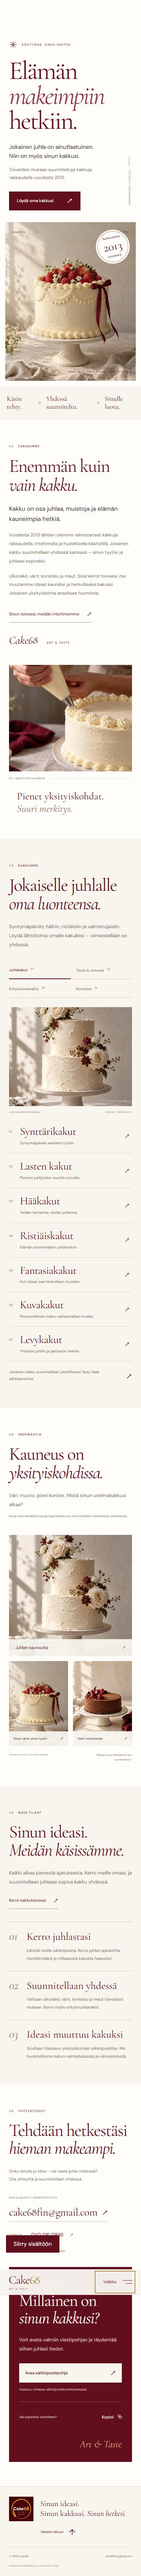
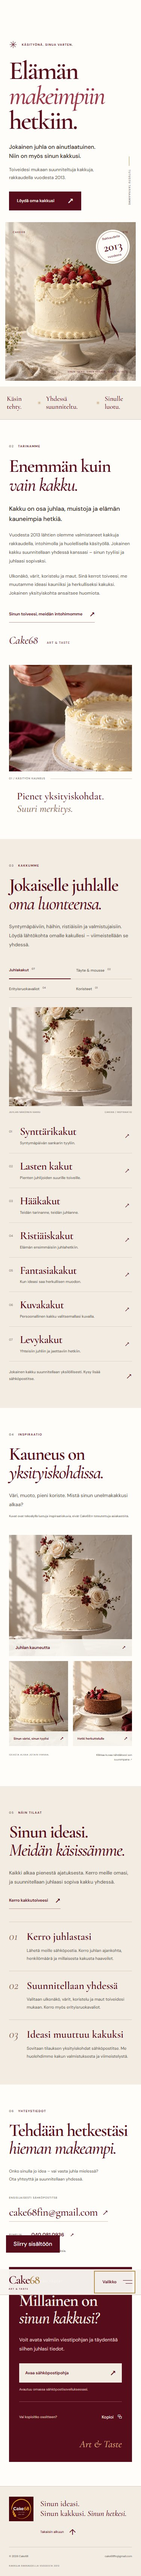
Refine typography weights and visual contrast

diff --git a/styles.css b/styles.css
@@ -1,18 +1,18 @@
-:root{--wine:#610f1d;--wine-deep:#490b15;--cream:#f8f5ef;--white:#fffdf9;--ink:#342c28;--muted:#776c65;--line:#e5ddd3;--gold:#b58d4a;--sidebar:244px;--gutter:clamp(32px,4.6vw,76px);--serif:'Cormorant Garamond',Georgia,serif;--sans:'DM Sans',Arial,sans-serif;--ease:cubic-bezier(.22,1,.36,1)}
-*{box-sizing:border-box}html{scroll-behavior:smooth;scroll-padding-top:26px}body{margin:0;background:var(--white);color:var(--ink);font-family:var(--sans);font-size:15px;line-height:1.75;-webkit-font-smoothing:antialiased}body.menu-is-open,body.lightbox-is-open{overflow:hidden}a{color:inherit;text-decoration:none}button{font:inherit;cursor:pointer}button,a{-webkit-tap-highlight-color:transparent}button{color:inherit}img{display:block;width:100%;height:auto}figure,p,h1,h2,h3{margin:0}h1,h2,h3{font-weight:400}h1,h2{font-family:var(--serif);color:var(--wine);line-height:1.02;letter-spacing:-.04em}h2{font-size:clamp(45px,4.45vw,70px)}em{font-weight:400}a:focus-visible,button:focus-visible,[tabindex]:focus-visible{outline:2px solid var(--gold);outline-offset:6px}::selection{background:var(--wine);color:var(--cream)}[hidden]{display:none!important}.skip-link{position:fixed;left:16px;top:-90px;z-index:100;background:var(--wine);color:white;padding:10px 20px}.skip-link:focus{top:16px}.mobile-bar,.menu-backdrop,.menu-close{display:none}
-.sidebar{position:fixed;inset:0 auto 0 0;width:var(--sidebar);display:flex;flex-direction:column;padding:38px 32px 22px;background:var(--cream);border-right:1px solid var(--line);z-index:30;overflow-y:auto}.brand{display:block;width:150px;align-self:center}.brand img{aspect-ratio:1}.sidebar-intro{font-size:9px;letter-spacing:.19em;text-align:center;margin:18px 0 35px;color:var(--wine)}.sidebar nav{display:flex;flex-direction:column;gap:4px}.nav-link{display:flex;align-items:center;gap:15px;min-height:48px;font-size:13px;color:#776c65;transition:color .25s,padding .3s var(--ease);position:relative}.nav-number{font-size:9px;letter-spacing:.05em;color:#776c65}.nav-link.active,.nav-link:hover{color:var(--wine)}.nav-link:hover{padding-left:4px}.nav-link.active{font-weight:600}.nav-link.active .nav-number{color:var(--wine)}.nav-dot{width:5px;height:5px;margin-left:auto;background:var(--wine);border-radius:50%;opacity:0;transition:opacity .3s}.active .nav-dot{opacity:1}.sidebar-bottom{margin-top:auto;padding-top:45px}.sidebar-bottom>p{font-family:var(--serif);font-size:23px;line-height:1.25;color:var(--wine);margin-bottom:23px}.sidebar-cta{display:flex;align-items:center;justify-content:space-between;border-top:1px solid #bb9d9b;border-bottom:1px solid #bb9d9b;padding:13px 0;font-size:11px;color:var(--wine)}.sidebar-cta span{font-size:19px;transition:transform .3s}.sidebar-cta:hover span{transform:translate(3px,-3px)}.sidebar-foot{display:flex;justify-content:space-between;margin-top:31px;font-size:8px;letter-spacing:.13em;color:var(--muted)}main{margin-left:var(--sidebar)}.section-pad{padding:100px var(--gutter)}.eyebrow{display:flex;align-items:center;gap:13px;font-size:10px;font-weight:500;letter-spacing:.18em;color:var(--wine);line-height:1.5;margin-bottom:25px}.eyebrow>span{color:#776c65;font-size:9px}.text-link{display:inline-flex;gap:24px;align-items:center;color:var(--wine);font-size:12px;padding-bottom:6px;border-bottom:1px solid #b4918c;line-height:1.6}.text-link span{font-size:19px;transition:transform .3s}.text-link:hover span{transform:translate(3px,-3px)}.button{display:inline-flex;align-items:center;justify-content:space-between;gap:31px;min-height:52px;padding:15px 25px;font-size:12px;font-weight:500;line-height:1.4;transition:background .3s,transform .3s}.button span{font-size:21px;line-height:1;transition:transform .3s var(--ease)}.button:hover span{transform:translate(3px,-3px)}.button-wine{background:var(--wine);color:var(--cream)}.button-wine:hover{background:var(--wine-deep)}.button-cream{background:var(--cream);color:var(--wine)}.button-cream:hover{background:#efdfc9}
-.hero{display:grid;grid-template-columns:1fr 1fr;min-height:760px;background:var(--white)}.hero-copy{padding:65px 28px 35px var(--gutter);display:flex;align-items:flex-start;flex-direction:column;justify-content:center;position:relative}.hero-kicker{display:flex;gap:12px;align-items:center;font-size:9px;letter-spacing:.19em;color:var(--wine);margin-bottom:31px}.tiny-star{width:22px;height:22px;line-height:1}.tiny-star svg,.note-flower svg{display:block;width:100%;height:100%}.hero h1{font-size:clamp(64px,6.45vw,108px);line-height:.96;letter-spacing:-.05em;margin-bottom:30px}.hero h1 em{color:#8b3540}.hero-description{font-size:17px;line-height:1.65;margin-bottom:14px}.hero-detail{font-size:12px;color:var(--muted);line-height:1.8;margin-bottom:30px}.hero-scroll{display:flex;gap:12px;align-items:center;margin-top:61px;font-size:8px;letter-spacing:.15em;color:var(--muted)}.hero-scroll>span:last-child{font-size:16px;color:var(--wine)}.scroll-line{height:1px;width:27px;background:var(--gold)}.hero-visual{position:relative;min-width:0;min-height:760px;background:#eae4d9}.hero-visual picture{position:absolute;inset:0}.hero-visual img{height:100%;object-fit:cover;object-position:50% 55%}.image-topline{position:absolute;inset:28px 29px auto;display:flex;justify-content:space-between;color:var(--wine);font-size:9px;letter-spacing:.17em}.heritage-seal{position:absolute;bottom:80px;left:-48px;border:1px solid #af8970;outline:6px solid var(--white);background:var(--white);width:110px;height:110px;border-radius:50%;display:flex;flex-direction:column;align-items:center;justify-content:center;color:var(--wine);transform:rotate(-11deg);line-height:1.2}.heritage-seal span{font-size:10px;letter-spacing:.04em}.heritage-seal strong{font-family:var(--serif);font-size:38px;font-weight:400;margin:1px 0}.hero-image-caption{position:absolute;bottom:25px;left:35px;right:25px;font-size:8px;letter-spacing:.13em;color:var(--wine);text-align:right}.brand-note{display:flex;align-items:center;justify-content:center;gap:clamp(16px,3vw,42px);padding:25px 20px;border-bottom:1px solid var(--line);font-family:var(--serif);font-size:24px;color:var(--wine);background:var(--cream)}.note-flower{width:15px;height:15px;flex-shrink:0;color:var(--gold)}
-.story{display:grid;grid-template-columns:1fr 1fr;gap:clamp(40px,6vw,90px);align-items:center;padding-top:116px;padding-bottom:115px}.story-art{padding-top:13px;position:relative}.story-photo{aspect-ratio:1.04;overflow:hidden}.story-photo img{height:100%;object-fit:cover;object-position:52% 50%}.story-photo-caption{display:flex;align-items:center;gap:14px;margin-top:18px;font-size:8px;letter-spacing:.12em;color:var(--muted)}.caption-line{height:1px;background:var(--line);flex:1}.story-note{font-family:var(--serif);font-size:29px;line-height:1.2;margin:34px 0 0 35px;color:var(--wine)}.story-note em{color:#8e6652}.story-copy h2{margin-bottom:25px}.story-copy .lead{font-size:17px;line-height:1.7;margin-bottom:18px}.story-copy>p:not(.eyebrow):not(.lead){font-size:14px;line-height:1.9;color:var(--muted);margin-bottom:17px}.story-copy .text-link{margin-top:12px}.story-signature{font-family:var(--serif);color:var(--wine);font-size:33px;font-style:italic;margin-top:28px}.story-signature span{font-family:var(--sans);font-style:normal;font-size:8px;letter-spacing:.16em;margin-left:17px;text-transform:uppercase}
-.cakes{background:var(--cream);padding-top:85px}.section-heading{display:flex;justify-content:space-between;align-items:flex-end;gap:35px;margin-bottom:41px}.section-heading>p,.gallery-intro{font-size:13px;line-height:1.85;color:var(--muted);max-width:280px;padding-bottom:5px}.cake-tabs{display:flex;border-bottom:1px solid #d8c9b9;gap:28px;margin-bottom:40px}.cake-tab{position:relative;border:0;border-bottom:2px solid transparent;background:transparent;padding:17px 0;font-size:11px;color:var(--muted);white-space:nowrap}.cake-tab>span{font-size:8px;vertical-align:super;margin-left:7px;color:#776c65}.cake-tab[aria-selected=true]{border-bottom-color:var(--wine);color:var(--wine)}.cake-tab:hover{color:var(--wine)}.cake-layout{display:grid;grid-template-columns:.87fr 1.13fr;gap:55px;align-items:start}.cake-feature{position:sticky;top:32px}.cake-feature img{height:auto;aspect-ratio:4/5;object-fit:cover;transition:opacity .3s}.cake-feature figcaption{display:flex;justify-content:space-between;gap:10px;margin-top:15px;font-size:7px;letter-spacing:.08em;color:var(--muted)}.panel-label{font-family:var(--serif);font-size:28px;color:var(--wine);margin:0 0 15px}.js .panel-label{display:none}.cake-row{display:grid;grid-template-columns:19px 1fr 20px;gap:14px;padding:19px 0 17px;border-bottom:1px solid #dfd4c8;align-items:center}.cake-row:first-of-type{padding-top:4px}.cake-index{font-size:8px;color:#776c65;align-self:start;padding-top:9px}.cake-row h3{font-family:var(--serif);font-size:29px;color:var(--wine);line-height:1.1;letter-spacing:-.02em;margin-bottom:7px}.cake-row p{font-size:12px;line-height:1.6;color:var(--muted)}.row-arrow{font-size:19px;color:var(--wine);transition:transform .3s}.cake-row:hover .row-arrow{transform:translate(4px,-4px)}.cake-row:hover h3{color:#9b4150}.panel-note{font-size:12px;line-height:1.9;color:var(--muted);margin-top:30px;max-width:350px}.catalog-note{font-size:9px;color:var(--muted);margin-top:26px;line-height:1.8;display:flex;gap:20px;justify-content:space-between}.catalog-note a{color:var(--wine);font-size:22px;min-width:35px;text-align:right}
-.gallery{padding-top:89px;padding-bottom:80px}.gallery .section-heading{margin-bottom:38px}.image-disclosure{font-size:9px;line-height:1.7;margin-top:16px;color:var(--muted)}.gallery-grid{display:grid;grid-template-columns:1.05fr 1fr;grid-template-rows:300px 300px;gap:22px}.gallery-item{padding:0;border:0;background:#eee7df;overflow:hidden;position:relative;text-align:left}.gallery-item img{height:100%;object-fit:cover;transition:transform .8s var(--ease)}.gallery-tall{grid-row:span 2}.gallery-tall img{object-position:50% 53%}.gallery-item:nth-child(2) img{object-position:50% 60%}.gallery-item:nth-child(3) img{object-position:50% 56%}.gallery-item:hover img{transform:scale(1.035)}.gallery-label{position:absolute;bottom:0;left:0;right:0;display:flex;justify-content:space-between;gap:15px;background:rgba(248,245,239,.94);padding:14px 19px;color:var(--wine);font-size:11px;line-height:1.3}.gallery-label>span:last-child{font-size:17px}.gallery-footnote{display:flex;justify-content:space-between;gap:20px;margin-top:25px;font-size:8px;color:var(--muted);letter-spacing:.1em}.gallery-footnote>span:last-child{letter-spacing:0}
+:root{--wine:#570c1b;--wine-deep:#3e0712;--cream:#f2ece3;--white:#fffdf9;--ink:#2c211e;--muted:#655851;--line:#d8c9bb;--gold:#b58d4a;--sidebar:244px;--gutter:clamp(32px,4.6vw,76px);--serif:'Cormorant Garamond',Georgia,serif;--sans:'DM Sans',Arial,sans-serif;--ease:cubic-bezier(.22,1,.36,1)}
+*{box-sizing:border-box}html{scroll-behavior:smooth;scroll-padding-top:26px}body{margin:0;background:var(--white);color:var(--ink);font-family:var(--sans);font-size:15px;font-weight:450;line-height:1.75;-webkit-font-smoothing:antialiased}body.menu-is-open,body.lightbox-is-open{overflow:hidden}a{color:inherit;text-decoration:none}button{font:inherit;cursor:pointer}button,a{-webkit-tap-highlight-color:transparent}button{color:inherit}img{display:block;width:100%;height:auto}figure,p,h1,h2,h3{margin:0}h1,h2,h3{font-weight:600}h1,h2{font-family:var(--serif);color:var(--wine);line-height:1.02;letter-spacing:-.04em}h2{font-size:clamp(45px,4.45vw,70px)}em{font-weight:500}a:focus-visible,button:focus-visible,[tabindex]:focus-visible{outline:2px solid var(--gold);outline-offset:6px}::selection{background:var(--wine);color:var(--cream)}[hidden]{display:none!important}.skip-link{position:fixed;left:16px;top:-90px;z-index:100;background:var(--wine);color:white;padding:10px 20px}.skip-link:focus{top:16px}.mobile-bar,.menu-backdrop,.menu-close{display:none}
+.sidebar{position:fixed;inset:0 auto 0 0;width:var(--sidebar);display:flex;flex-direction:column;padding:38px 32px 22px;background:var(--cream);border-right:1px solid var(--line);z-index:30;overflow-y:auto}.brand{display:block;width:150px;align-self:center}.brand img{aspect-ratio:1}.sidebar-intro{font-size:9px;font-weight:600;letter-spacing:.19em;text-align:center;margin:18px 0 35px;color:var(--wine)}.sidebar nav{display:flex;flex-direction:column;gap:4px}.nav-link{display:flex;align-items:center;gap:15px;min-height:48px;font-size:13px;font-weight:500;color:var(--muted);transition:color .25s,padding .3s var(--ease);position:relative}.nav-number{font-size:9px;letter-spacing:.05em;color:#776c65}.nav-link.active,.nav-link:hover{color:var(--wine)}.nav-link:hover{padding-left:4px}.nav-link.active{font-weight:600}.nav-link.active .nav-number{color:var(--wine)}.nav-dot{width:5px;height:5px;margin-left:auto;background:var(--wine);border-radius:50%;opacity:0;transition:opacity .3s}.active .nav-dot{opacity:1}.sidebar-bottom{margin-top:auto;padding-top:45px}.sidebar-bottom>p{font-family:var(--serif);font-size:23px;font-weight:500;line-height:1.25;color:var(--wine);margin-bottom:23px}.sidebar-cta{display:flex;align-items:center;justify-content:space-between;border-top:1px solid #bb9d9b;border-bottom:1px solid #bb9d9b;padding:13px 0;font-size:11px;font-weight:600;color:var(--wine)}.sidebar-cta span{font-size:19px;transition:transform .3s}.sidebar-cta:hover span{transform:translate(3px,-3px)}.sidebar-foot{display:flex;justify-content:space-between;margin-top:31px;font-size:8px;letter-spacing:.13em;color:var(--muted)}main{margin-left:var(--sidebar)}.section-pad{padding:100px var(--gutter)}.eyebrow{display:flex;align-items:center;gap:13px;font-size:10px;font-weight:600;letter-spacing:.18em;color:var(--wine);line-height:1.5;margin-bottom:25px}.eyebrow>span{color:#776c65;font-size:9px}.text-link{display:inline-flex;gap:24px;align-items:center;color:var(--wine);font-size:12px;font-weight:600;padding-bottom:6px;border-bottom:1px solid #b4918c;line-height:1.6}.text-link span{font-size:19px;transition:transform .3s}.text-link:hover span{transform:translate(3px,-3px)}.button{display:inline-flex;align-items:center;justify-content:space-between;gap:31px;min-height:52px;padding:15px 25px;font-size:12px;font-weight:600;line-height:1.4;transition:background .3s,transform .3s}.button span{font-size:21px;line-height:1;transition:transform .3s var(--ease)}.button:hover span{transform:translate(3px,-3px)}.button-wine{background:var(--wine);color:var(--cream)}.button-wine:hover{background:var(--wine-deep)}.button-cream{background:var(--cream);color:var(--wine)}.button-cream:hover{background:#efdfc9}
+.hero{display:grid;grid-template-columns:1fr 1fr;min-height:760px;background:var(--white)}.hero-copy{padding:65px 28px 35px var(--gutter);display:flex;align-items:flex-start;flex-direction:column;justify-content:center;position:relative}.hero-kicker{display:flex;gap:12px;align-items:center;font-size:9px;font-weight:600;letter-spacing:.19em;color:var(--wine);margin-bottom:31px}.tiny-star{width:22px;height:22px;line-height:1}.tiny-star svg,.note-flower svg{display:block;width:100%;height:100%}.hero h1{font-size:clamp(64px,6.45vw,108px);line-height:.96;letter-spacing:-.05em;margin-bottom:30px}.hero h1 em{color:#9a3548}.hero-description{font-size:17px;font-weight:500;line-height:1.65;margin-bottom:14px}.hero-detail{font-size:12px;color:var(--muted);line-height:1.8;margin-bottom:30px}.hero-scroll{display:flex;gap:12px;align-items:center;margin-top:61px;font-size:8px;letter-spacing:.15em;color:var(--muted)}.hero-scroll>span:last-child{font-size:16px;color:var(--wine)}.scroll-line{height:1px;width:27px;background:var(--gold)}.hero-visual{position:relative;min-width:0;min-height:760px;background:#eae4d9}.hero-visual picture{position:absolute;inset:0}.hero-visual img{height:100%;object-fit:cover;object-position:50% 55%}.image-topline{position:absolute;inset:28px 29px auto;display:flex;justify-content:space-between;color:var(--wine);font-size:9px;letter-spacing:.17em}.heritage-seal{position:absolute;bottom:80px;left:-48px;border:1px solid #af8970;outline:6px solid var(--white);background:var(--white);width:110px;height:110px;border-radius:50%;display:flex;flex-direction:column;align-items:center;justify-content:center;color:var(--wine);transform:rotate(-11deg);line-height:1.2}.heritage-seal span{font-size:10px;letter-spacing:.04em}.heritage-seal strong{font-family:var(--serif);font-size:38px;font-weight:600;margin:1px 0}.hero-image-caption{position:absolute;bottom:25px;left:35px;right:25px;font-size:8px;letter-spacing:.13em;color:var(--wine);text-align:right}.brand-note{display:flex;align-items:center;justify-content:center;gap:clamp(16px,3vw,42px);padding:25px 20px;border-bottom:1px solid var(--line);font-family:var(--serif);font-size:24px;font-weight:500;color:var(--wine);background:var(--cream)}.note-flower{width:15px;height:15px;flex-shrink:0;color:var(--gold)}
+.story{display:grid;grid-template-columns:1fr 1fr;gap:clamp(40px,6vw,90px);align-items:center;padding-top:116px;padding-bottom:115px}.story-art{padding-top:13px;position:relative}.story-photo{aspect-ratio:1.04;overflow:hidden}.story-photo img{height:100%;object-fit:cover;object-position:52% 50%}.story-photo-caption{display:flex;align-items:center;gap:14px;margin-top:18px;font-size:8px;letter-spacing:.12em;color:var(--muted)}.caption-line{height:1px;background:var(--line);flex:1}.story-note{font-family:var(--serif);font-size:29px;font-weight:500;line-height:1.2;margin:34px 0 0 35px;color:var(--wine)}.story-note em{color:#8e6652}.story-copy h2{margin-bottom:25px}.story-copy .lead{font-size:17px;font-weight:500;line-height:1.7;margin-bottom:18px}.story-copy>p:not(.eyebrow):not(.lead){font-size:14px;line-height:1.9;color:var(--muted);margin-bottom:17px}.story-copy .text-link{margin-top:12px}.story-signature{font-family:var(--serif);color:var(--wine);font-size:33px;font-style:italic;margin-top:28px}.story-signature span{font-family:var(--sans);font-style:normal;font-size:8px;letter-spacing:.16em;margin-left:17px;text-transform:uppercase}
+.cakes{background:var(--cream);padding-top:85px}.section-heading{display:flex;justify-content:space-between;align-items:flex-end;gap:35px;margin-bottom:41px}.section-heading>p,.gallery-intro{font-size:13px;line-height:1.85;color:var(--muted);max-width:280px;padding-bottom:5px}.cake-tabs{display:flex;border-bottom:1px solid #d8c9b9;gap:28px;margin-bottom:40px}.cake-tab{position:relative;border:0;border-bottom:2px solid transparent;background:transparent;padding:17px 0;font-size:11px;font-weight:500;color:var(--muted);white-space:nowrap}.cake-tab>span{font-size:8px;vertical-align:super;margin-left:7px;color:#776c65}.cake-tab[aria-selected=true]{border-bottom-color:var(--wine);color:var(--wine);font-weight:600}.cake-tab:hover{color:var(--wine)}.cake-layout{display:grid;grid-template-columns:.87fr 1.13fr;gap:55px;align-items:start}.cake-feature{position:sticky;top:32px}.cake-feature img{height:auto;aspect-ratio:4/5;object-fit:cover;transition:opacity .3s}.cake-feature figcaption{display:flex;justify-content:space-between;gap:10px;margin-top:15px;font-size:7px;letter-spacing:.08em;color:var(--muted)}.panel-label{font-family:var(--serif);font-size:28px;color:var(--wine);margin:0 0 15px}.js .panel-label{display:none}.cake-row{display:grid;grid-template-columns:19px 1fr 20px;gap:14px;padding:19px 0 17px;border-bottom:1px solid #dfd4c8;align-items:center}.cake-row:first-of-type{padding-top:4px}.cake-index{font-size:8px;color:#776c65;align-self:start;padding-top:9px}.cake-row h3{font-family:var(--serif);font-size:29px;color:var(--wine);line-height:1.1;letter-spacing:-.02em;margin-bottom:7px}.cake-row p{font-size:12px;line-height:1.6;color:var(--muted)}.row-arrow{font-size:19px;color:var(--wine);transition:transform .3s}.cake-row:hover .row-arrow{transform:translate(4px,-4px)}.cake-row:hover h3{color:#9b4150}.panel-note{font-size:12px;line-height:1.9;color:var(--muted);margin-top:30px;max-width:350px}.catalog-note{font-size:9px;color:var(--muted);margin-top:26px;line-height:1.8;display:flex;gap:20px;justify-content:space-between}.catalog-note a{color:var(--wine);font-size:22px;min-width:35px;text-align:right}
+.gallery{padding-top:89px;padding-bottom:80px}.gallery .section-heading{margin-bottom:38px}.image-disclosure{font-size:9px;line-height:1.7;margin-top:16px;color:var(--muted)}.gallery-grid{display:grid;grid-template-columns:1.05fr 1fr;grid-template-rows:300px 300px;gap:22px}.gallery-item{padding:0;border:0;background:#eee7df;overflow:hidden;position:relative;text-align:left}.gallery-item img{height:100%;object-fit:cover;transition:transform .8s var(--ease)}.gallery-tall{grid-row:span 2}.gallery-tall img{object-position:50% 53%}.gallery-item:nth-child(2) img{object-position:50% 60%}.gallery-item:nth-child(3) img{object-position:50% 56%}.gallery-item:hover img{transform:scale(1.035)}.gallery-label{position:absolute;bottom:0;left:0;right:0;display:flex;justify-content:space-between;gap:15px;background:rgba(248,245,239,.94);padding:14px 19px;color:var(--wine);font-size:11px;font-weight:600;line-height:1.3}.gallery-label>span:last-child{font-size:17px}.gallery-footnote{display:flex;justify-content:space-between;gap:20px;margin-top:25px;font-size:8px;color:var(--muted);letter-spacing:.1em}.gallery-footnote>span:last-child{letter-spacing:0}
 .ordering{background:var(--cream);display:grid;grid-template-columns:1fr 1fr;gap:65px;padding-top:89px;padding-bottom:86px}.ordering-intro h2{font-size:clamp(44px,4.1vw,64px);margin-bottom:24px}.ordering-intro>p:not(.eyebrow){font-size:13px;line-height:1.9;color:var(--muted);max-width:330px;margin-bottom:27px}.order-steps{list-style:none;padding:0;margin:8px 0 0}.order-steps li{display:grid;grid-template-columns:37px 1fr;gap:24px;border-top:1px solid #d9cbbb;padding:27px 0}.order-steps li:last-child{padding-bottom:0}.step-number{font-family:var(--serif);font-size:35px;font-style:italic;line-height:1;color:#8e6652}.order-steps h3{font-family:var(--serif);font-size:30px;line-height:1.2;color:var(--wine);margin-bottom:9px}.order-steps p{font-size:13px;line-height:1.9;color:var(--muted);max-width:350px}
-.contact{display:grid;grid-template-columns:1.15fr .85fr;gap:52px;padding-top:96px;padding-bottom:97px;align-items:center}.contact h2{font-size:clamp(44px,4.3vw,67px);margin-bottom:26px}.contact-copy>p:not(.eyebrow):not(.online-note){font-size:13px;line-height:1.9;color:var(--muted)}.contact-method{margin-top:33px}.contact-label{display:block;font-size:8px;letter-spacing:.13em;color:var(--muted);margin-bottom:9px}.contact-email{font-family:var(--serif);font-size:clamp(24px,2.35vw,35px);color:var(--wine);letter-spacing:-.02em;border-bottom:1px solid #d4bdb1;display:inline-flex;gap:18px;align-items:center;line-height:1.6}.contact-email>span{font-family:var(--sans);font-size:22px}.contact-phone{margin-top:24px;display:flex;align-items:center;gap:25px}.contact-phone>span{font-size:8px;letter-spacing:.13em;color:var(--muted)}.contact-phone a{font-size:14px;color:var(--wine)}.contact-phone a>span{margin-left:13px}.online-note{font-size:9px;color:var(--muted);margin-top:30px;display:flex;gap:8px;align-items:center}.online-note>span{width:4px;height:4px;border-radius:50%;background:var(--wine)}.contact-card{background:var(--wine);color:var(--cream);padding:38px 32px 26px;position:relative}.contact-card .eyebrow{color:#d8b9a0;font-size:8px;margin-bottom:22px}.contact-card h3{font-family:var(--serif);font-size:43px;line-height:1.04;letter-spacing:-.035em;margin-bottom:22px}.contact-card>p:not(.eyebrow):not(.copy-status){font-size:12px;line-height:1.85;color:#e0c7c4;margin-bottom:26px}.contact-card .button{width:100%;font-size:10px;padding:15px 16px;gap:16px}.email-hint{display:block;color:#d9b9b4;font-size:8px;margin-top:11px}.copy-contact{display:flex;justify-content:space-between;gap:12px;align-items:center;border-top:1px solid #8c4750;padding-top:20px;margin-top:23px;font-size:8px;color:#dec1bb}.copy-contact button{border:0;padding:9px 0 9px 12px;color:var(--cream);background:none;font-size:10px;min-height:42px}.copy-contact button>span{margin-left:8px}.copy-status{font-size:9px;line-height:1.6;color:var(--cream);min-height:15px;margin-top:2px}.card-signature{font-family:var(--serif);font-style:italic;display:block;text-align:right;font-size:26px;color:#d9b187;margin-top:15px}
-.footer{padding:35px var(--gutter) 22px;background:var(--cream);border-top:1px solid var(--line)}.footer-top{display:flex;gap:25px;align-items:center;padding-bottom:28px}.footer-top img{width:75px;aspect-ratio:1}.footer-top p{font-family:var(--serif);font-size:23px;line-height:1.25;color:var(--wine)}.back-to-top{margin-left:auto;display:flex;gap:19px;align-items:center;font-size:10px;color:var(--wine);min-height:44px}.back-to-top span{font-size:21px}.footer-bottom{display:flex;justify-content:space-between;align-items:center;gap:20px;border-top:1px solid var(--line);padding-top:20px;color:var(--muted);font-size:8px}.footer-bottom>span:nth-child(2){font-size:7px;letter-spacing:.1em}
+.contact{display:grid;grid-template-columns:1.15fr .85fr;gap:52px;padding-top:96px;padding-bottom:97px;align-items:center}.contact h2{font-size:clamp(44px,4.3vw,67px);margin-bottom:26px}.contact-copy>p:not(.eyebrow):not(.online-note){font-size:13px;line-height:1.9;color:var(--muted)}.contact-method{margin-top:33px}.contact-label{display:block;font-size:8px;letter-spacing:.13em;color:var(--muted);margin-bottom:9px}.contact-email{font-family:var(--serif);font-weight:500;font-size:clamp(24px,2.35vw,35px);color:var(--wine);letter-spacing:-.02em;border-bottom:1px solid #d4bdb1;display:inline-flex;gap:18px;align-items:center;line-height:1.6}.contact-email>span{font-family:var(--sans);font-size:22px}.contact-phone{margin-top:24px;display:flex;align-items:center;gap:25px}.contact-phone>span{font-size:8px;letter-spacing:.13em;color:var(--muted)}.contact-phone a{font-size:14px;font-weight:600;color:var(--wine)}.contact-phone a>span{margin-left:13px}.online-note{font-size:9px;color:var(--muted);margin-top:30px;display:flex;gap:8px;align-items:center}.online-note>span{width:4px;height:4px;border-radius:50%;background:var(--wine)}.contact-card{background:var(--wine);color:var(--cream);padding:38px 32px 26px;position:relative}.contact-card .eyebrow{color:#d8b9a0;font-size:8px;margin-bottom:22px}.contact-card h3{font-family:var(--serif);font-size:43px;line-height:1.04;letter-spacing:-.035em;margin-bottom:22px}.contact-card>p:not(.eyebrow):not(.copy-status){font-size:12px;line-height:1.85;color:#e0c7c4;margin-bottom:26px}.contact-card .button{width:100%;font-size:10px;padding:15px 16px;gap:16px}.email-hint{display:block;color:#d9b9b4;font-size:8px;margin-top:11px}.copy-contact{display:flex;justify-content:space-between;gap:12px;align-items:center;border-top:1px solid #8c4750;padding-top:20px;margin-top:23px;font-size:8px;color:#dec1bb}.copy-contact button{border:0;padding:9px 0 9px 12px;color:var(--cream);background:none;font-size:10px;min-height:42px}.copy-contact button>span{margin-left:8px}.copy-status{font-size:9px;line-height:1.6;color:var(--cream);min-height:15px;margin-top:2px}.card-signature{font-family:var(--serif);font-style:italic;display:block;text-align:right;font-size:26px;color:#d9b187;margin-top:15px}
+.footer{padding:35px var(--gutter) 22px;background:var(--cream);border-top:1px solid var(--line)}.footer-top{display:flex;gap:25px;align-items:center;padding-bottom:28px}.footer-top img{width:75px;aspect-ratio:1}.footer-top p{font-family:var(--serif);font-size:23px;font-weight:500;line-height:1.25;color:var(--wine)}.back-to-top{margin-left:auto;display:flex;gap:19px;align-items:center;font-size:10px;color:var(--wine);min-height:44px}.back-to-top span{font-size:21px}.footer-bottom{display:flex;justify-content:space-between;align-items:center;gap:20px;border-top:1px solid var(--line);padding-top:20px;color:var(--muted);font-size:8px}.footer-bottom>span:nth-child(2){font-size:7px;letter-spacing:.1em}
 .lightbox{width:min(920px,92vw);max-height:94dvh;overflow:auto;border:0;padding:32px 32px 18px;background:var(--cream);color:var(--wine)}.lightbox::backdrop{background:rgba(32,15,17,.8);backdrop-filter:blur(5px)}.lightbox figure{margin:0}.lightbox figure img{width:100%;max-height:74dvh;object-fit:contain}.lightbox figcaption{text-align:center;font-family:var(--serif);font-size:24px;margin-top:16px;line-height:1.3}.lightbox-close{position:absolute;right:3px;top:0;width:40px;height:40px;border:0;background:var(--cream);color:var(--wine);font-size:30px;line-height:1}.lightbox-disclosure{text-align:center;font-size:9px;margin-top:8px;color:var(--muted)}.js .reveal{opacity:0;transform:translateY(22px);transition:opacity .7s var(--ease),transform .8s var(--ease)}.js .reveal.is-visible{opacity:1;transform:translateY(0)}
 @media(min-width:1600px){:root{--sidebar:268px;--gutter:80px}.hero{min-height:850px}.hero-visual{min-height:850px}.hero-copy{padding-right:48px}.hero h1{font-size:110px}.gallery-grid{grid-template-rows:350px 350px}.sidebar{padding-left:39px;padding-right:39px}}
 @media(min-width:1024px) and (max-height:780px){.sidebar{padding-top:22px}.brand{width:122px}.sidebar-intro{margin:12px 0 19px}.nav-link{min-height:41px}.sidebar-bottom{padding-top:25px}.sidebar-bottom>p{font-size:21px;margin-bottom:18px}.sidebar-foot{margin-top:21px}}
 @media(min-width:1024px) and (max-width:1199px){:root{--sidebar:220px;--gutter:35px}.sidebar{padding-left:25px;padding-right:25px}.brand{width:140px}.hero{min-height:680px}.hero-visual{min-height:680px}.hero-copy{padding:45px 24px 30px 35px}.hero h1{font-size:73px}.hero-description{font-size:15px}.hero-detail{font-size:11px}.hero-scroll{margin-top:40px}.heritage-seal{width:92px;height:92px;left:-36px}.heritage-seal strong{font-size:32px}.hero-image-caption{left:15px;right:20px;font-size:7px}.section-pad{padding-top:78px;padding-bottom:78px}.story{gap:38px}.cake-layout{gap:33px}.cake-tabs{gap:22px}.cake-tab{font-size:10px}.section-heading>p,.gallery-intro{max-width:225px}.contact{gap:30px}.contact-card{padding:30px 23px 24px}.contact-card h3{font-size:37px}.contact-email{font-size:26px}.ordering{gap:35px}.gallery-grid{grid-template-rows:260px 260px}}
-@media(max-width:1023px){:root{--gutter:45px;--sidebar:280px}html{scroll-padding-top:90px}.mobile-bar{height:76px;position:fixed;top:0;left:0;right:0;z-index:25;display:flex;align-items:center;justify-content:space-between;padding:0 30px;background:rgba(248,245,239,.97);border-bottom:1px solid var(--line)}.mobile-brand{font-family:var(--serif);font-size:31px;line-height:1;color:var(--wine);letter-spacing:-.05em}.mobile-brand>span{color:#a88142}.mobile-brand small{display:block;font-family:var(--sans);font-size:6px;letter-spacing:.24em;margin-top:5px}.menu-open{border:0;background:none;display:flex;gap:17px;align-items:center;min-height:44px;padding:9px 0 9px 15px;color:var(--wine);font-size:11px}.menu-icon{width:25px;display:flex;flex-direction:column;gap:7px}.menu-icon i{width:25px;height:1px;background:var(--wine)}.menu-icon i:last-child{width:18px;align-self:flex-end}.menu-close{display:block;position:absolute;right:16px;top:13px;background:none;border:0;font-size:31px;color:var(--wine);width:44px;height:44px;line-height:1}.sidebar{transform:translateX(-101%);transition:transform .42s var(--ease),visibility 0s .42s;z-index:50;padding-top:53px;width:280px;max-width:86vw;height:100dvh;visibility:hidden}.menu-is-open .sidebar{transform:translateX(0);visibility:visible;transition:transform .42s var(--ease),visibility 0s}.menu-backdrop{display:block;position:fixed;inset:0;z-index:45;background:rgba(33,13,16,.4);opacity:0;visibility:hidden;transition:opacity .35s,visibility .35s}.menu-is-open .menu-backdrop{opacity:1;visibility:visible}.sidebar-bottom{padding-top:30px}.sidebar-intro{margin-bottom:26px}main{margin-left:0;padding-top:76px}.hero{min-height:705px}.hero-visual{min-height:705px}.hero-copy{padding-left:45px}.hero h1{font-size:clamp(73px,8vw,89px)}.hero-kicker{font-size:8px}.hero-description{font-size:15px}.hero-detail{font-size:11px}.hero-scroll{margin-top:42px}.hero-image-caption{font-size:7px}.heritage-seal{left:-35px;bottom:67px;width:91px;height:91px}.heritage-seal strong{font-size:33px}.heritage-seal span{font-size:8px}.section-pad{padding-top:78px;padding-bottom:78px}.story{gap:43px}.story-copy .lead{font-size:15px}.section-heading h2{font-size:52px}.section-heading>p,.gallery-intro{max-width:230px}.cake-layout{gap:40px}.cake-tabs{gap:28px}.cake-tab{font-size:11px}.ordering{gap:43px}.contact{gap:35px}.contact h2{font-size:48px}.contact-email{font-size:27px}.contact-card{padding:33px 25px 23px}.contact-card h3{font-size:37px}.gallery-grid{grid-template-rows:260px 260px}}
+@media(max-width:1023px){:root{--gutter:45px;--sidebar:280px}html{scroll-padding-top:90px}.mobile-bar{height:76px;position:fixed;top:0;left:0;right:0;z-index:25;display:flex;align-items:center;justify-content:space-between;padding:0 30px;background:rgba(248,245,239,.97);border-bottom:1px solid var(--line)}.mobile-brand{font-family:var(--serif);font-size:31px;font-weight:600;line-height:1;color:var(--wine);letter-spacing:-.05em}.mobile-brand>span{color:#a88142}.mobile-brand small{display:block;font-family:var(--sans);font-size:6px;letter-spacing:.24em;margin-top:5px}.menu-open{border:0;background:none;display:flex;gap:17px;align-items:center;min-height:44px;padding:9px 0 9px 15px;color:var(--wine);font-size:11px;font-weight:600}.menu-icon{width:25px;display:flex;flex-direction:column;gap:7px}.menu-icon i{width:25px;height:1px;background:var(--wine)}.menu-icon i:last-child{width:18px;align-self:flex-end}.menu-close{display:block;position:absolute;right:16px;top:13px;background:none;border:0;font-size:31px;color:var(--wine);width:44px;height:44px;line-height:1}.sidebar{transform:translateX(-101%);transition:transform .42s var(--ease),visibility 0s .42s;z-index:50;padding-top:53px;width:280px;max-width:86vw;height:100dvh;visibility:hidden}.menu-is-open .sidebar{transform:translateX(0);visibility:visible;transition:transform .42s var(--ease),visibility 0s}.menu-backdrop{display:block;position:fixed;inset:0;z-index:45;background:rgba(33,13,16,.4);opacity:0;visibility:hidden;transition:opacity .35s,visibility .35s}.menu-is-open .menu-backdrop{opacity:1;visibility:visible}.sidebar-bottom{padding-top:30px}.sidebar-intro{margin-bottom:26px}main{margin-left:0;padding-top:76px}.hero{min-height:705px}.hero-visual{min-height:705px}.hero-copy{padding-left:45px}.hero h1{font-size:clamp(73px,8vw,89px)}.hero-kicker{font-size:8px}.hero-description{font-size:15px}.hero-detail{font-size:11px}.hero-scroll{margin-top:42px}.hero-image-caption{font-size:7px}.heritage-seal{left:-35px;bottom:67px;width:91px;height:91px}.heritage-seal strong{font-size:33px}.heritage-seal span{font-size:8px}.section-pad{padding-top:78px;padding-bottom:78px}.story{gap:43px}.story-copy .lead{font-size:15px}.section-heading h2{font-size:52px}.section-heading>p,.gallery-intro{max-width:230px}.cake-layout{gap:40px}.cake-tabs{gap:28px}.cake-tab{font-size:11px}.ordering{gap:43px}.contact{gap:35px}.contact h2{font-size:48px}.contact-email{font-size:27px}.contact-card{padding:33px 25px 23px}.contact-card h3{font-size:37px}.gallery-grid{grid-template-rows:260px 260px}}
 @media(max-width:767px){:root{--gutter:24px}.mobile-bar{height:68px;padding:0 23px}html{scroll-padding-top:83px}main{padding-top:68px}.hero{display:flex;flex-direction:column;min-height:0}.hero-copy{padding:39px 24px 31px}.hero-kicker{margin-bottom:25px;font-size:8px;letter-spacing:.16em}.hero h1{font-size:clamp(69px,14vw,97px);line-height:.96;margin-bottom:24px}.hero-description{font-size:15px;line-height:1.6}.hero-detail{font-size:12px;margin-bottom:25px}.hero .button{padding:14px 21px;min-height:50px;font-size:11px;gap:35px}.hero-scroll{position:absolute;right:25px;bottom:44px;margin:0;font-size:7px;writing-mode:vertical-rl;gap:10px}.hero-scroll .scroll-line{height:25px;width:1px}.hero-scroll>span:last-child{display:none}.hero-visual{min-height:0;height:clamp(375px,112vw,610px);margin:0 14px 15px}.hero-visual img{object-position:50% 53%}.image-topline{inset:21px 20px auto;font-size:7px}.heritage-seal{left:auto;right:20px;top:24px;bottom:auto;width:82px;height:82px;outline-width:4px}.heritage-seal strong{font-size:31px}.hero-image-caption{left:20px;right:20px;bottom:18px;font-size:6px}.brand-note{padding:22px 18px;gap:12px;font-size:18px;line-height:1.2}.note-flower{width:11px;height:11px}.section-pad{padding:64px var(--gutter)}h2{font-size:47px;letter-spacing:-.04em}.eyebrow{font-size:8px;margin-bottom:22px;gap:11px}.eyebrow>span{font-size:8px}.story{display:flex;flex-direction:column;gap:39px}.story-art{order:2;width:100%;padding:0}.story-copy{order:1}.story-copy h2{font-size:49px;margin-bottom:24px}.story-copy .lead{font-size:16px}.story-copy>p:not(.eyebrow):not(.lead){font-size:12px}.story-signature{margin-top:22px;font-size:29px}.story-photo{aspect-ratio:1.16}.story-note{font-size:27px;margin-top:25px;margin-left:21px}.story-photo-caption{margin-top:13px;font-size:7px}.section-heading{display:block;margin-bottom:28px}.section-heading h2{font-size:48px}.section-heading>p,.gallery-intro{max-width:100%;margin-top:24px;font-size:13px;max-width:360px}.cake-tabs{gap:0;display:grid;grid-template-columns:1fr 1fr;margin-bottom:25px;border-bottom:0;row-gap:4px}.cake-tab{font-size:10px;text-align:left;border-bottom:1px solid #d8c9b9;padding:13px 0;min-height:45px}.cake-tab[aria-selected=true]{border-bottom:2px solid var(--wine)}.cake-tab:nth-child(2n){padding-left:15px}.cake-tab>span{font-size:7px;margin-left:5px}.cake-layout{display:flex;flex-direction:column;gap:26px}.cake-feature{position:static;width:100%}.cake-feature img{aspect-ratio:1.25;object-position:50% 52%}.cake-feature figcaption{font-size:6px;margin-top:11px}.cake-panels{width:100%}.cake-row{padding:18px 0;gap:12px;grid-template-columns:17px 1fr 20px}.cake-row h3{font-size:29px}.cake-row p{font-size:10px}.cake-index{font-size:8px}.panel-note{font-size:13px}.catalog-note{font-size:10px;margin-top:19px}.gallery-grid{grid-template-columns:1fr 1fr;grid-template-rows:auto 225px;gap:13px}.gallery-tall{grid-column:span 2;grid-row:span 1;aspect-ratio:1.02}.gallery-label{padding:11px 12px;font-size:8px;gap:8px;align-items:center}.gallery-label>span:last-child{font-size:13px}.gallery-tall .gallery-label{font-size:11px;padding:14px 17px}.gallery-item:nth-child(2) img{object-position:48% 59%}.gallery-item:nth-child(3) img{object-position:50% 56%}.gallery-footnote{font-size:6px;gap:15px;margin-top:18px;line-height:1.7}.gallery-footnote>span:last-child{max-width:135px;text-align:right;font-size:7px}.image-disclosure{font-size:8px;margin-top:12px}.ordering{display:block}.ordering-intro h2{font-size:47px}.ordering-intro>p:not(.eyebrow){font-size:13px;margin-bottom:21px}.text-link{font-size:11px;gap:19px}.order-steps{margin-top:34px}.order-steps li{padding:22px 0;gap:17px;grid-template-columns:30px 1fr}.step-number{font-size:31px}.order-steps h3{font-size:28px}.order-steps p{font-size:11px}.contact{display:flex;flex-direction:column;gap:36px;align-items:stretch}.contact h2{font-size:47px}.contact-copy>p:not(.eyebrow):not(.online-note){font-size:11px}.contact-email{font-size:29px;gap:12px}.contact-label{font-size:7px}.contact-phone>span{font-size:7px}.contact-phone a{font-size:13px}.online-note{font-size:8px;margin-top:23px}.contact-card{padding:32px 27px 24px}.contact-card h3{font-size:45px}.contact-card .eyebrow{font-size:8px}.contact-card>p:not(.eyebrow):not(.copy-status){font-size:13px;max-width:270px}.contact-card .button{font-size:11px;min-height:51px}.email-hint{font-size:9px}.copy-contact{font-size:9px}.copy-contact button{font-size:11px}.card-signature{margin-top:10px}.footer{padding:27px var(--gutter) 22px}.footer-top{flex-wrap:wrap;gap:18px;padding-bottom:21px}.footer-top img{width:65px}.footer-top p{font-size:21px}.footer-top .back-to-top{margin-left:83px;min-height:32px;font-size:9px;gap:14px;margin-top:-7px}.footer-bottom{display:grid;grid-template-columns:1fr 1fr;gap:13px;font-size:7px;padding-top:18px}.footer-bottom>span:nth-child(2){grid-column:span 2;grid-row:2;font-size:6px}.footer-bottom>a{text-align:right}.lightbox{padding:32px 12px 15px;width:94vw}.lightbox figure img{max-height:72dvh}.lightbox figcaption{font-size:20px}.lightbox-disclosure{font-size:8px}}
 @media(max-width:374px){:root{--gutter:20px}.mobile-bar{padding:0 20px}.hero-copy{padding-left:20px;padding-right:20px}.hero h1{font-size:65px}.hero-scroll{right:20px;font-size:6px}.hero-kicker{font-size:7px}.hero-description{font-size:14px}.brand-note{gap:8px;font-size:15px;padding-left:12px;padding-right:12px}.note-flower{width:9px;height:9px}h2,.section-heading h2,.ordering-intro h2,.contact h2{font-size:42px}.story-copy h2{font-size:45px}.contact-email{font-size:25px;gap:10px}.contact-card{padding:30px 22px 23px}.contact-card h3{font-size:41px}.cake-tab{font-size:9px}.cake-tab>span{margin-left:3px}.gallery-grid{grid-template-rows:auto 195px}.gallery-label{font-size:7px;padding:10px 9px}.footer-top p{font-size:19px}}
 @media(prefers-reduced-motion:reduce){html{scroll-behavior:auto}*,*::before,*::after{animation:none!important;transition:none!important}.js .reveal{opacity:1;transform:none}.gallery-item:hover img{transform:none}}

diff --git a/docs/design-and-content.md b/docs/design-and-content.md
@@ -44,7 +44,7 @@ Không website nào trong ba mẫu đã xem dùng sidebar trái ở trang chủ.
 
 ## Design system
 
-- Màu: đỏ rượu `#610f1d`, đỏ sẫm `#490b15`, trắng ngà `#fffdf9`, nền ấm `#f8f5ef`, chữ `#342c28`, nét phân cách `#e5ddd3`, vàng trầm `#b58d4a`.
+- Màu: đỏ rượu `#570c1b`, đỏ sẫm `#3e0712`, trắng ngà `#fffdf9`, nền ấm `#f2ece3`, chữ `#2c211e`, nét phân cách `#d8c9bb`, vàng trầm `#b58d4a`.
 - Typography: Cormorant Garamond cho display và italic; DM Sans cho nội dung và điều khiển. Font thật từ Google Fonts, self-host WOFF2, có giấy phép OFL, hỗ trợ ký tự Phần Lan.
 - Khoảng cách: khoảng nhỏ 8–12–16–24px; khoảng thành phần 32–40–56px; nhịp section khoảng 64px mobile và 78–116px desktop.
 - Grid: sidebar 244px desktop, 220px ở laptop nhỏ, 268px ở màn hình lớn; nội dung 2 cột có tỷ lệ thay đổi. Drawer mobile 280px, giới hạn 86vw.
@@ -73,3 +73,7 @@ Người dùng đã cho phép tạo ảnh thay cho ảnh thực tế. Công cụ
 Theo hướng dẫn bổ sung của người dùng, bỏ qua trong giao diện: URL Facebook/Instagram, địa chỉ, giờ hoạt động, bảng giá. Không có yêu cầu chờ các thông tin đó mới hoàn thành.
 
 URL GitHub Pages chính thức chưa có. Khi biết URL, dùng `scripts/set-site-url.py` để cập nhật canonical và Open Graph thành URL tuyệt đối. Chưa triển khai/push vào tài khoản GitHub; bản bàn giao đã sẵn sàng cho static hosting.
+
+## Cập nhật typography — 15/10/2026
+
+Theo yêu cầu tăng độ dày chữ và làm rõ đậm–nhạt: heading dùng Cormorant Garamond 600, phần italic 500; nội dung DM Sans 450; menu 500, mục active và CTA 600. Chữ nội dung đậm hơn, nền cream ấm hơn và đỏ rượu sâu hơn để phân cấp rõ. Dùng đúng weight của font variable đã self-host, không thêm text-shadow hoặc stroke giả. Giữ bố cục sidebar và kiểm tra lại cả mobile.

diff --git a/docs/qa/README.md b/docs/qa/README.md
@@ -22,3 +22,7 @@ Chrome thực tế chạy headless qua Playwright trên Windows; viewport mô ph
 Ảnh viewport: `desktop.jpg`, `mobile.jpg`, `mobile-menu.jpg`. Ảnh toàn trang: `desktop-full.jpg`, `mobile-full.jpg`.
 
 Lưu ý ảnh chụp toàn trang của Chrome ghép vùng cuộn: sidebar hoặc thanh mobile `position: fixed` có thể xuất hiện ở vị trí viewport cuối khi chụp. Kiểm tra bố cục cố định bằng các ảnh viewport, không bằng vị trí của nó trong ảnh ghép toàn trang.
+
+## Cập nhật 15/10/2026 — tăng độ dày chữ và tương phản
+
+Đã kiểm tra lại ở 320, 375, 430, 768, 1024 và 1440px sau chỉnh typography. Tất cả PASS: không tràn ngang, không lỗi JavaScript hoặc asset; heading weight 600, italic 500, body 450 và CTA 600. Đã xem lại ảnh thực tế desktop 1440px và mobile 375px, thử mở/đóng menu mobile. Ảnh chụp giao diện trong thư mục đã được cập nhật. Chi tiết: `type-refresh-results.json`.
